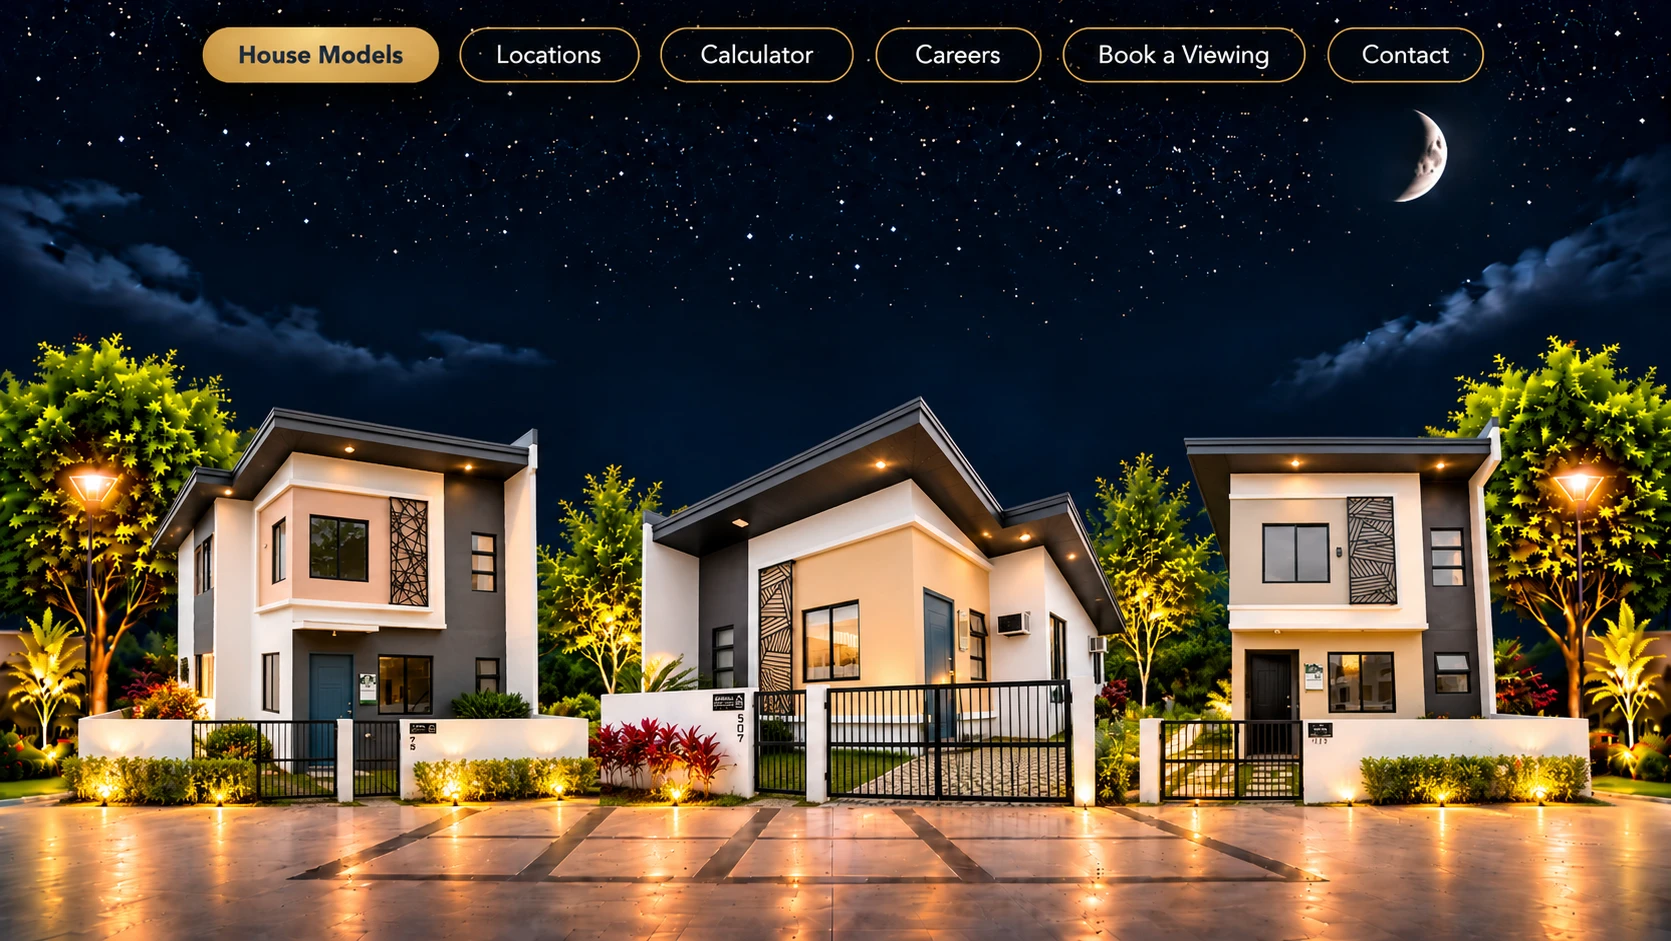
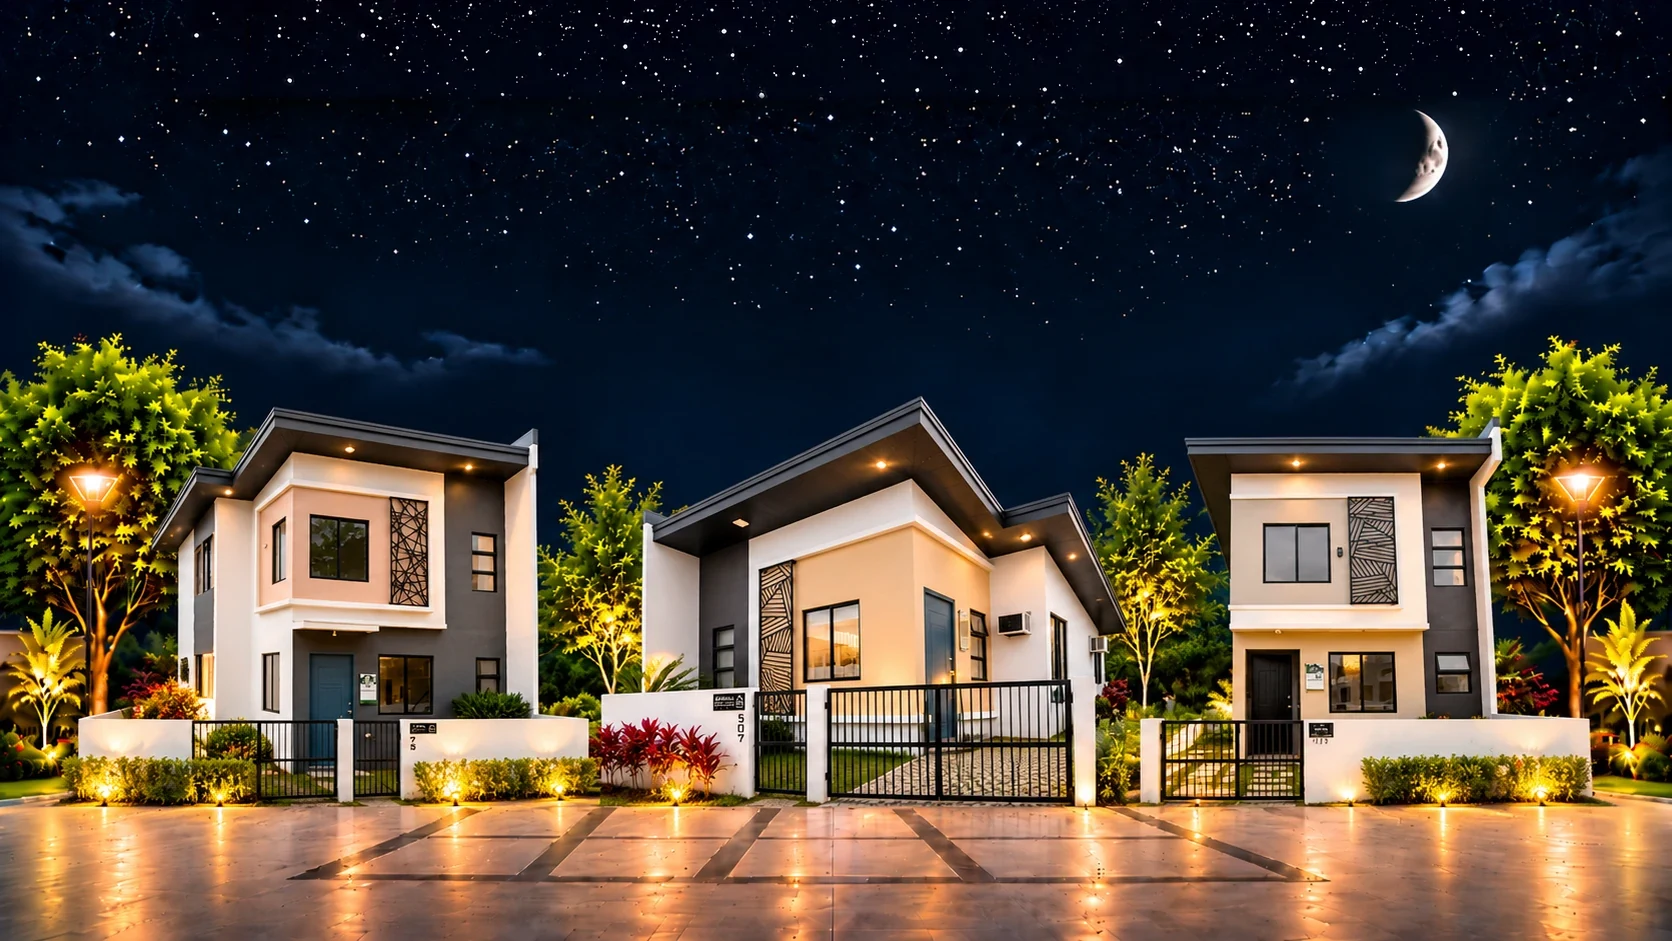
Hero: full-bleed renders, automatic ping-pong split reveal, scroll and drag control
- Use the six full renders again (object-fit: cover, top centre) instead of
  cut-outs on a shared background; the menu painted into them is replaced by
  plain sky because the menu is real HTML
- The reveal now plays by itself: each house rests, the next is cut in from
  right to left, through to the last house and then back again
- Scrolling or dragging sideways takes over and the loop resumes 2.5s later
- The cut line is 1px white at 75% with an 8px glow, from 90px down
- Remove the cut-outs, the shared scene image and the cut-out script

Claude-Session: https://claude.ai/code/session_01MkTV9WsBSWUZ5kcf2am7UY

diff --git a/components/hero.tsx b/components/hero.tsx
@@ -1,17 +1,16 @@
 import { useEffect, useRef } from 'react';
 
-// The still night scene (sky, moon, trees, lamps, driveway) behind every house.
-const SCENE = '/assets/img/hero/night-scene.webp';
-
-// Transparent cut-outs: only the houses, their fences and front bushes.
+// Full-bleed renders, one per model. The menu that was painted into them has been
+// replaced by plain sky, because the menu below is real HTML.
 const MODELS = [
-  { src: '/assets/img/hero/house-1.webp', alt: 'Navy and amber PHirst townhouses with stone accents' },
-  { src: '/assets/img/hero/house-2.webp', alt: 'Blue-grey and white PHirst townhouses' },
-  { src: '/assets/img/hero/house-3.webp', alt: 'White and yellow PHirst rowhouses' },
-  { src: '/assets/img/hero/house-4.webp', alt: 'Single-attached PHirst homes' },
-  { src: '/assets/img/hero/house-5.webp', alt: 'Cartland, Charles and Christie PHirst homes' },
-  { src: '/assets/img/hero/house-6.webp', alt: 'Charles and Corin PHirst homes with balconies' },
+  { src: '/assets/img/hero/model-1.webp', alt: 'Navy and amber PHirst townhouses with stone accents at night' },
+  { src: '/assets/img/hero/model-2.webp', alt: 'Blue-grey and white PHirst townhouses at night' },
+  { src: '/assets/img/hero/model-3.webp', alt: 'White and yellow PHirst rowhouses at night' },
+  { src: '/assets/img/hero/model-4.webp', alt: 'Single-attached PHirst homes at night' },
+  { src: '/assets/img/hero/model-5.webp', alt: 'Cartland, Charles and Christie PHirst homes at night' },
+  { src: '/assets/img/hero/model-6.webp', alt: 'Charles and Corin PHirst homes with balconies at night' },
 ];
+const LAST = MODELS.length - 1;
 
 const LINKS = [
   { label: 'House Models', href: '/house-models/', primary: true },
@@ -22,61 +21,147 @@ const LINKS = [
   { label: 'Contact', href: '/contact/' },
 ];
 
-// Scroll progress (0..1) windows, one per reveal, with a short rest between them.
-const REVEALS: [number, number][] = MODELS.slice(1).map((_, i, all) => {
-  const span = 1 / all.length;
-  return [i * span + span * 0.1, (i + 1) * span - span * 0.1];
-});
+const HOLD_MS = 1800; // rest on each house
+const WIPE_MS = 1700; // one full reveal
+const RESUME_MS = 2500; // wait this long after the last scroll or drag before playing again
 
-const clamp = (v: number) => (v < 0 ? 0 : v > 1 ? 1 : v);
+const clamp = (v: number, lo = 0, hi = 1) => (v < lo ? lo : v > hi ? hi : v);
+const ease = (x: number) => (x < 0.5 ? 2 * x * x : 1 - (-2 * x + 2) ** 2 / 2);
+
+/** Scroll progress through the track (0..1) -> position in the sequence (0..LAST), with a rest on each house. */
+function sequenceAt(progress: number) {
+  const span = 1 / LAST;
+  let pos = 0;
+  for (let i = 0; i < LAST; i++) pos += clamp((progress - (i + 0.1) * span) / (0.8 * span));
+  return pos;
+}
 
 /**
- * Desktop (>=1024px): a 600vh scroll track pins a 100vh stage. The six models are stacked
- * in the same spot and never move. Scrolling moves a vertical cut from the right edge to
- * the left edge of the next model (clip-path only), with a 1px hairline on the cut.
- * Nothing plays by itself: the cut sits exactly where the scroll position puts it.
+ * Desktop (>=1024px): a 600vh scroll track pins a 100vh stage. The six renders are stacked in
+ * the same spot and never move; the next one is revealed by cutting it from the left edge
+ * (clip-path only), with a 1px line on the cut.
+ * `pos` (0..5) says where the sequence is: 2.25 = model 3 with model 4 a quarter revealed.
+ *   - Left alone, it plays by itself: reveal, rest, reveal ... to the last house, then back.
+ *   - Scrolling or dragging sideways takes over, and it resumes a moment after you stop.
  * Below 1024px: the first model only.
  */
 export function Hero({ desktop }: { desktop: boolean }) {
   const trackRef = useRef<HTMLDivElement>(null);
-  const layerRefs = useRef<(HTMLDivElement | null)[]>([]);
+  const stageRef = useRef<HTMLDivElement>(null);
+  const layerRefs = useRef<(HTMLImageElement | null)[]>([]);
   const lineRef = useRef<HTMLDivElement>(null);
 
   useEffect(() => {
     const track = trackRef.current;
-    if (!desktop || !track) return;
+    const stage = stageRef.current;
+    if (!desktop || !track || !stage) return;
+
+    const reduced = window.matchMedia('(prefers-reduced-motion: reduce)');
     let raf = 0;
+    let visible = true;
+    let pos = 0; // what is on screen
+    let goal = 0; // where scrolling / dragging wants it
+    let manualAt = -Infinity; // time of the last scroll or drag
+    let dir = 1; // autoplay direction
+    let leg: { from: number; to: number; start: number; ms: number } | null = null;
+    let restUntil = performance.now() + HOLD_MS;
+    let drag: { x: number; pos: number; id: number } | null = null;
 
-    const render = () => {
-      raf = 0;
-      const total = track.offsetHeight - window.innerHeight;
-      const top = track.getBoundingClientRect().top + window.scrollY;
-      const progress = total > 0 ? clamp((window.scrollY - top) / total) : 0;
-
-      let cutLine = -1; // where the cut is, in % from the left, while a reveal is under way
-      REVEALS.forEach(([a, b], i) => {
-        const cut = (1 - clamp((progress - a) / (b - a))) * 100; // 100% -> 0%
-        const layer = layerRefs.current[i + 1];
+    const draw = () => {
+      for (let i = 1; i <= LAST; i++) {
+        const cut = (1 - clamp(pos - (i - 1))) * 100; // 100% -> 0%
+        const layer = layerRefs.current[i];
         if (layer) layer.style.clipPath = `inset(0 0 0 ${cut.toFixed(3)}%)`;
-        if (cut > 0 && cut < 100) cutLine = cut;
-      });
-
+      }
+      const part = pos - Math.floor(pos);
       const line = lineRef.current;
       if (line) {
-        line.style.opacity = cutLine < 0 ? '0' : '1';
-        if (cutLine >= 0) line.style.left = `${cutLine.toFixed(3)}%`;
+        const moving = part > 0.0005 && part < 0.9995;
+        line.style.opacity = moving ? '1' : '0';
+        if (moving) line.style.left = `${((1 - part) * 100).toFixed(3)}%`;
       }
     };
-    const onScroll = () => {
-      if (!raf) raf = requestAnimationFrame(render);
+
+    const frame = (now: number) => {
+      raf = 0;
+      const manual = drag !== null || now - manualAt < RESUME_MS;
+      if (manual) {
+        pos += (goal - pos) * 0.22;
+        if (Math.abs(goal - pos) < 0.0005) pos = goal;
+        leg = null;
+        restUntil = now;
+      } else if (!reduced.matches) {
+        if (!leg && now >= restUntil) {
+          if (pos >= LAST) dir = -1;
+          else if (pos <= 0) dir = 1;
+          const next = dir > 0 ? Math.floor(pos + 1e-6) + 1 : Math.ceil(pos - 1e-6) - 1;
+          leg = { from: pos, to: clamp(next, 0, LAST), start: now, ms: WIPE_MS * Math.max(0.35, Math.abs(next - pos)) };
+        }
+        if (leg) {
+          const k = clamp((now - leg.start) / leg.ms);
+          pos = leg.from + (leg.to - leg.from) * ease(k);
+          if (k >= 1) {
+            pos = leg.to;
+            leg = null;
+            restUntil = now + HOLD_MS;
+          }
+        }
+        goal = pos;
+      }
+      draw();
+      if (visible) raf = requestAnimationFrame(frame);
+    };
+    const wake = () => {
+      if (!raf && visible) raf = requestAnimationFrame(frame);
     };
 
-    render();
+    // Scrolling takes over, and the sequence follows the scroll position.
+    const onScroll = () => {
+      const total = track.offsetHeight - window.innerHeight;
+      if (total <= 0) return;
+      goal = sequenceAt(clamp(-track.getBoundingClientRect().top / total));
+      manualAt = performance.now();
+      wake();
+    };
+
+    // Dragging sideways moves the cut with the pointer: one screen width = one house.
+    const onDown = (e: PointerEvent) => {
+      if (e.button !== 0 || (e.target as Element).closest('a')) return;
+      drag = { x: e.clientX, pos, id: e.pointerId };
+      goal = pos;
+      stage.setPointerCapture(e.pointerId);
+    };
+    const onMove = (e: PointerEvent) => {
+      if (!drag || e.pointerId !== drag.id) return;
+      goal = clamp(drag.pos - (e.clientX - drag.x) / stage.offsetWidth, 0, LAST);
+      wake();
+    };
+    const onUp = (e: PointerEvent) => {
+      if (!drag || e.pointerId !== drag.id) return;
+      drag = null;
+      manualAt = performance.now();
+    };
+
+    const seen = new IntersectionObserver(([entry]) => {
+      visible = entry.isIntersecting;
+      wake();
+    });
+    seen.observe(stage);
+
+    draw();
+    wake();
     window.addEventListener('scroll', onScroll, { passive: true });
-    window.addEventListener('resize', onScroll);
+    stage.addEventListener('pointerdown', onDown);
+    stage.addEventListener('pointermove', onMove);
+    stage.addEventListener('pointerup', onUp);
+    stage.addEventListener('pointercancel', onUp);
     return () => {
+      seen.disconnect();
       window.removeEventListener('scroll', onScroll);
-      window.removeEventListener('resize', onScroll);
+      stage.removeEventListener('pointerdown', onDown);
+      stage.removeEventListener('pointermove', onMove);
+      stage.removeEventListener('pointerup', onUp);
+      stage.removeEventListener('pointercancel', onUp);
       if (raf) cancelAnimationFrame(raf);
     };
   }, [desktop]);
@@ -84,40 +169,34 @@ export function Hero({ desktop }: { desktop: boolean }) {
   return (
     <section aria-label="PHirst house models" className="bg-night">
       <div ref={trackRef} className="lg:h-[600vh]">
-        <div className="relative aspect-[4/3] w-full overflow-hidden sm:aspect-[2/1] lg:sticky lg:top-0 lg:aspect-auto lg:h-screen">
-          {/* One full-screen layer per model: the night scene with the house on it. All six sit
-              in the same place; a later layer is only ever cut, from its left edge. */}
+        <div
+          ref={stageRef}
+          className="relative aspect-[4/3] w-full touch-pan-y overflow-hidden select-none sm:aspect-[2/1] lg:sticky lg:top-0 lg:aspect-auto lg:h-screen"
+        >
+          {/* The six renders, stacked in the same place. A later one is only ever cut from its left edge. */}
           {(desktop ? MODELS : MODELS.slice(0, 1)).map((m, i) => (
-            <div
+            <img
               key={m.src}
               ref={(el) => {
                 layerRefs.current[i] = el;
               }}
-              className="absolute inset-0 h-full w-full bg-cover bg-center"
-              style={{
-                zIndex: i + 1,
-                backgroundImage: `url(${SCENE})`,
-                clipPath: desktop && i > 0 ? 'inset(0 0 0 100%)' : undefined,
-              }}
-            >
-              <img
-                src={m.src}
-                alt={m.alt}
-                width={1672}
-                height={941}
-                draggable={false}
-                fetchPriority={i === 0 ? 'high' : 'low'}
-                className="absolute inset-0 h-full w-full max-w-none select-none object-cover object-center"
-              />
-            </div>
+              src={m.src}
+              alt={m.alt}
+              width={1672}
+              height={941}
+              draggable={false}
+              fetchPriority={i === 0 ? 'high' : 'low'}
+              style={{ zIndex: i + 1, clipPath: desktop && i > 0 ? 'inset(0 0 0 100%)' : undefined }}
+              className="absolute inset-0 h-full w-full max-w-none object-cover object-top"
+            />
           ))}
 
-          {/* The cut line: 1px, soft glow, placed by the same scroll progress. */}
+          {/* The cut line, from just below the menu to the bottom. */}
           {desktop && (
             <div
               ref={lineRef}
               aria-hidden="true"
-              className="pointer-events-none absolute inset-y-0 z-10 w-px bg-white/45 opacity-0 shadow-[0_0_10px_1px_rgba(255,255,255,0.35)]"
+              className="pointer-events-none absolute bottom-0 top-[90px] z-10 w-px bg-white/75 opacity-0 shadow-[0_0_8px_rgba(255,255,255,0.5)]"
             />
           )}
 
@@ -127,7 +206,7 @@ export function Hero({ desktop }: { desktop: boolean }) {
             className="absolute inset-x-0 top-[clamp(14px,1.6vw,30px)] z-20 hidden items-center justify-center gap-[0.85em] text-[clamp(13px,1.45vw,26px)] leading-[1.2] lg:flex"
           >
             {LINKS.map((l) => (
-              <a key={l.label} href={l.href} className={`hero-pill ${l.primary ? 'hero-pill--primary' : ''}`}>
+              <a key={l.label} href={l.href} draggable={false} className={`hero-pill ${l.primary ? 'hero-pill--primary' : ''}`}>
                 {l.label}
               </a>
             ))}

diff --git a/index.html b/index.html
@@ -15,8 +15,7 @@
 <meta property="og:description" content="Your first home starts here. Explore PHirst house models in Cavite and Batangas.">
 <meta property="og:type" content="website">
 <meta property="og:url" content="https://phirst.homes/">
-<link rel="preload" as="image" href="/assets/img/hero/night-scene.webp" fetchpriority="high">
-<link rel="preload" as="image" href="/assets/img/hero/house-1.webp" fetchpriority="high">
+<link rel="preload" as="image" href="/assets/img/hero/model-1.webp" fetchpriority="high">
 <link rel="preconnect" href="https://fonts.googleapis.com">
 <link rel="preconnect" href="https://fonts.gstatic.com" crossorigin>
 <link href="https://fonts.googleapis.com/css2?family=Montserrat:wght@500;600;700;800&family=Playfair+Display:wght@600&display=swap" rel="stylesheet">
